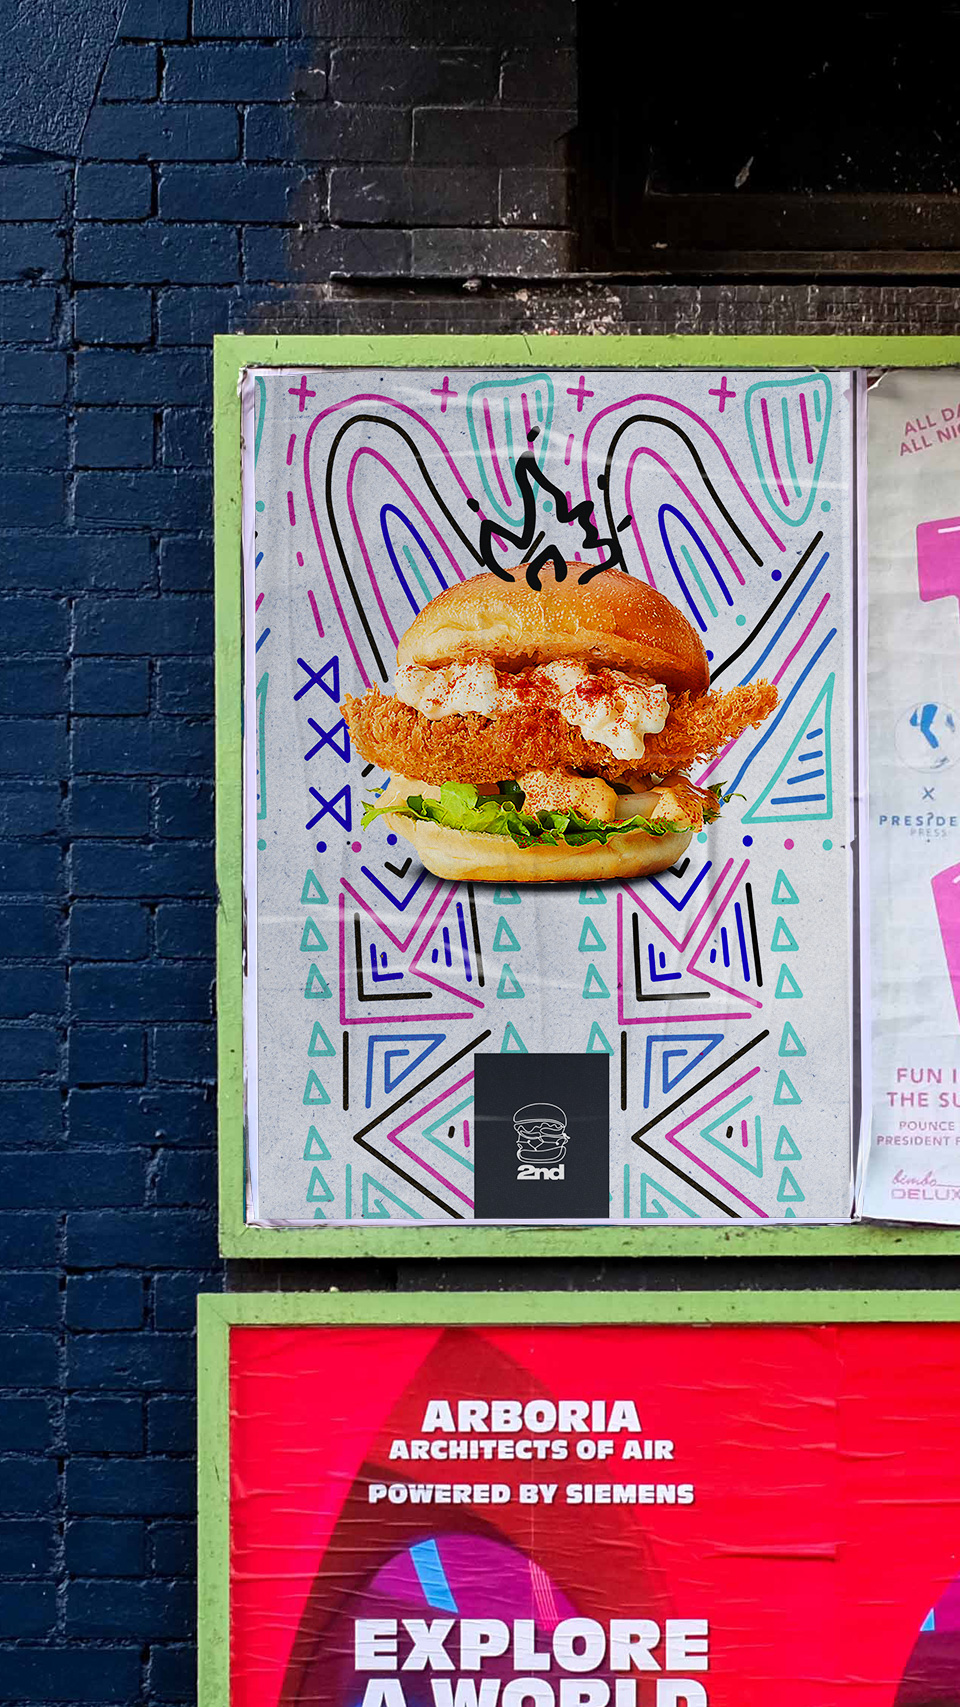
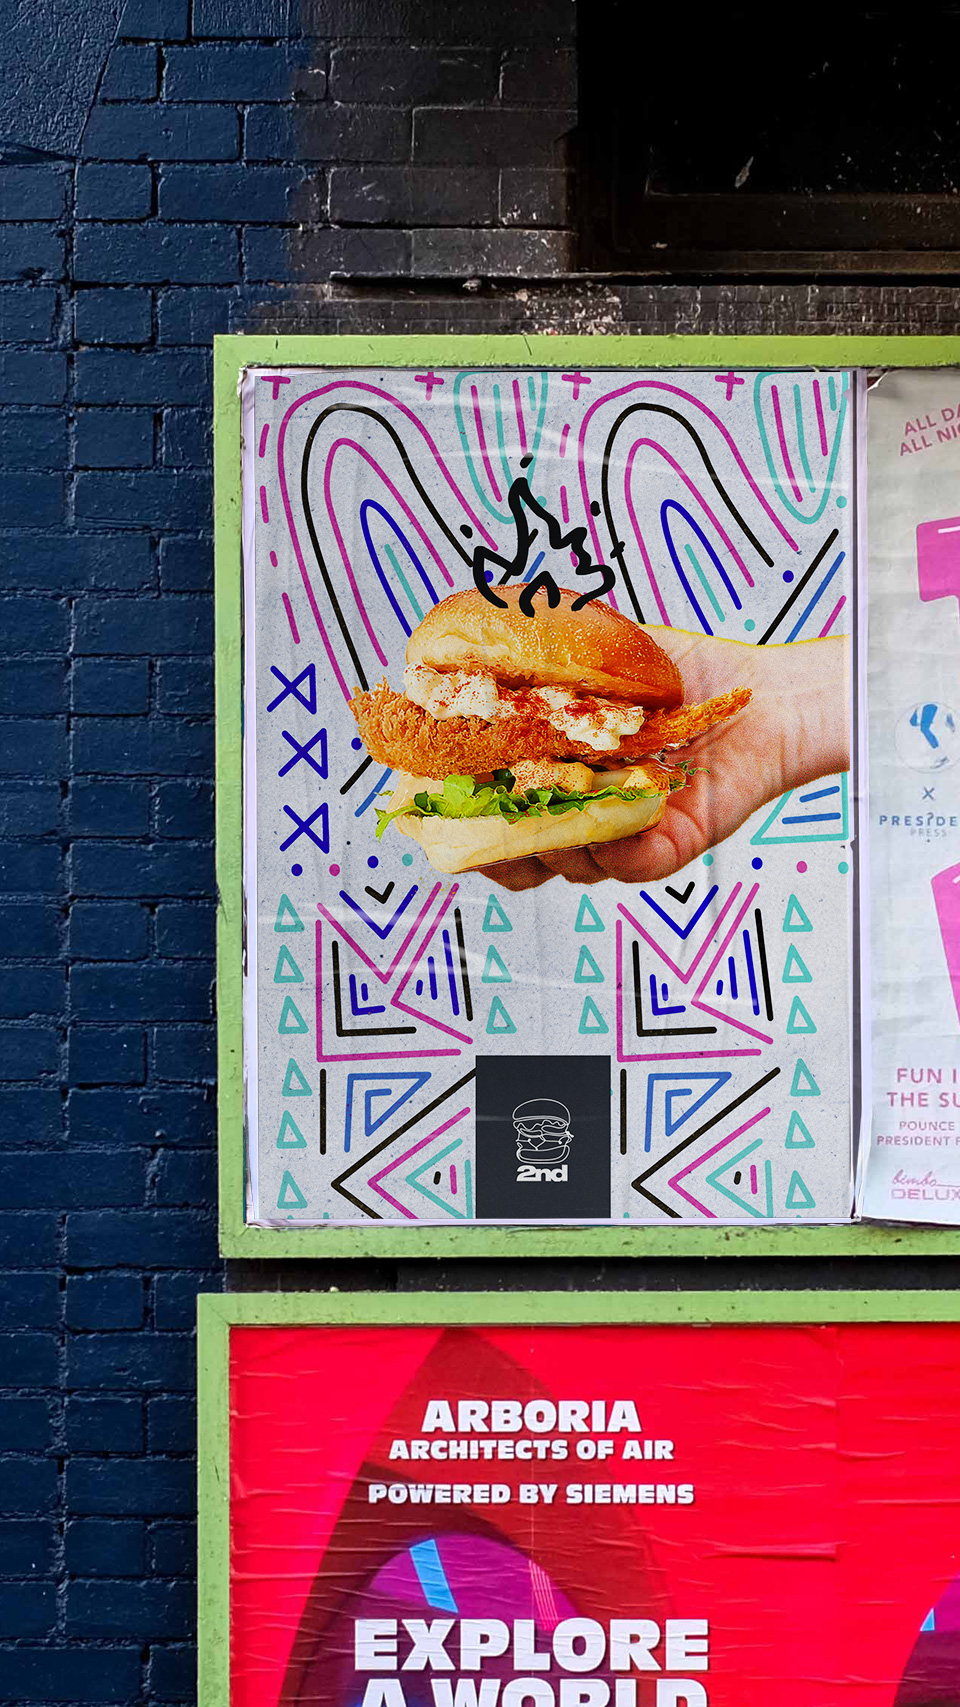
2711_01

Changed region(s): [[0.25, 0.2173, 0.9062, 0.7141], [0.5312, 0.652, 0.5938, 0.7141]]

diff --git a/stylesheets/projects/2nd.css b/stylesheets/projects/2nd.css
@@ -302,9 +302,9 @@
 
 
     .parallax-5 img {
-        top: 22%;
-        left: -54vw;
-        width: 42vw;
+        top: -21vh;
+        left: -8vw;
+        width: 60vw;
         z-index: 99;
       /*display: none;*/
     }
@@ -666,12 +666,12 @@ body, .body {
     z-index: 99;
 }
 
-    .parallax-5 img {
-    top: -8vh;
-    left: -18%;
-    width: 40vw;
+.parallax-5 img {
+    top: -11vh;
+    left: 6vw;
+    width: 32vw;
     z-index: 99;
-    }
+}
 
     .parallax-8 img {
         top: -4vh;
@@ -929,9 +929,9 @@ body, .body {
 }
 
 .parallax-5 img {
-  top: -6vh;
-  left: 4vw;
-  width: 35vw;
+  top: -7vh;
+  left: 36vw;
+  width: 34vw;
   z-index: 99;
 }
 
@@ -1046,10 +1046,10 @@ body, .body {
 }
 
 .parallax-5 img {
-    top: -6vh;
-    left: 3vw;
-    width: 35vw;
-    z-index: 99;
+  top: -7vh;
+  left: 36vw;
+  width: 34vw;
+  z-index: 99;
 }
 
 .copy-width-col-copy-lr {

diff --git a/project/2nd.html b/project/2nd.html
@@ -247,6 +247,11 @@
     </div>
 
 
+    <div class="body-width observable parallax-section spacing-large">
+        <div class="parallax-5"><img class="lazy" data-src="../images/projects/2nd/box.png"></div>
+    </div>
+
+
 
 
 
